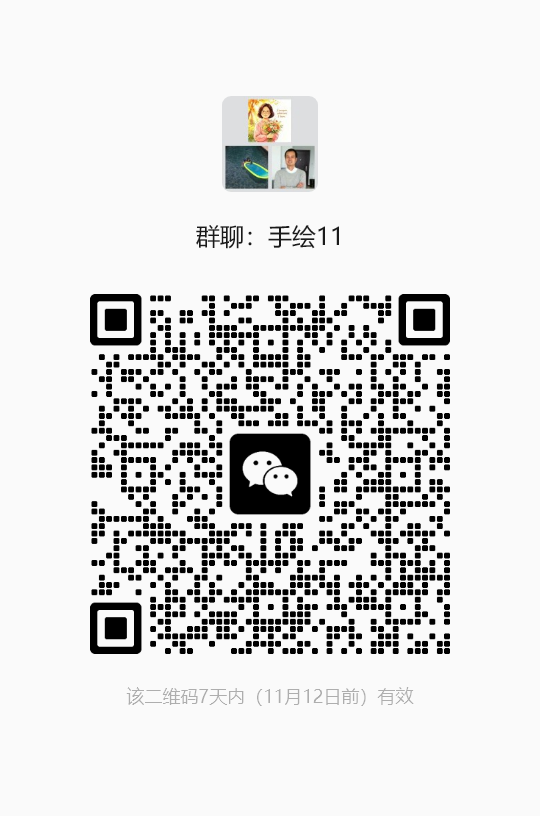
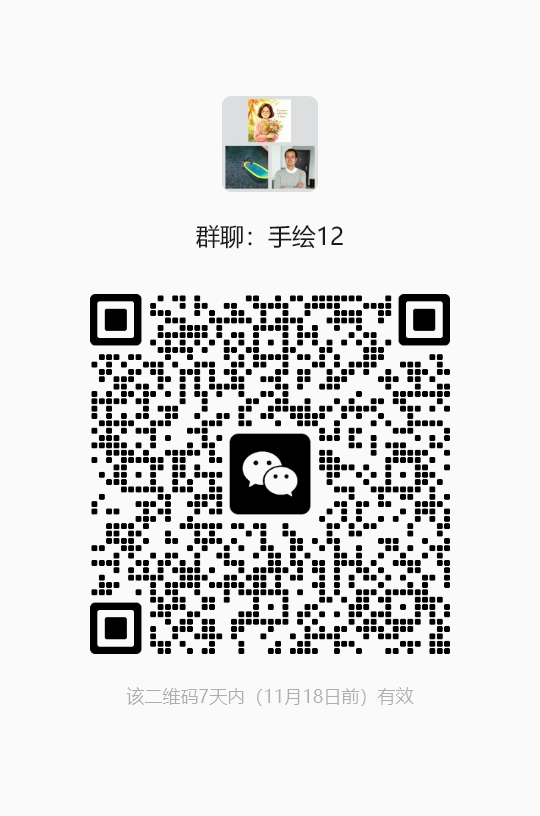
docs(community): renew wechat group 12 qr code (valid until 2026-11-18)

Changed region(s): [[0.1481, 0.337, 0.8593, 0.8272], [0.5926, 0.2757, 0.6519, 0.3064]]

diff --git a/skills/handdraw-style-prompter/gallery/assets.html b/skills/handdraw-style-prompter/gallery/assets.html
@@ -788,7 +788,7 @@ dialog#wechat-modal p { margin: 0 0 16px; font-size: 13.5px; color: #665f57; }
     <div class="qr-card">
       <span class="qr-tag" data-i18n="wechatGroupLabel">① 优先加入群聊</span>
       <img src="../../../images/wechat_group.png" alt="微信交流群二维码">
-      <span class="qr-tip">群聊：手绘11</span>
+      <span class="qr-tip">群聊：手绘12</span>
     </div>
     <div class="qr-card">
       <span class="qr-tag" data-i18n="wechatPersonalLabel">② 个人微信备用</span>

diff --git a/skills/handdraw-style-prompter/scripts/build_assets_gallery.py b/skills/handdraw-style-prompter/scripts/build_assets_gallery.py
@@ -882,7 +882,7 @@ dialog#wechat-modal p {{ margin: 0 0 16px; font-size: 13.5px; color: #665f57; }}
     <div class="qr-card">
       <span class="qr-tag" data-i18n="wechatGroupLabel">① 优先加入群聊</span>
       <img src="../../../images/wechat_group.png" alt="微信交流群二维码">
-      <span class="qr-tip">群聊：手绘11</span>
+      <span class="qr-tip">群聊：手绘12</span>
     </div>
     <div class="qr-card">
       <span class="qr-tag" data-i18n="wechatPersonalLabel">② 个人微信备用</span>

diff --git a/README.md b/README.md
@@ -275,7 +275,7 @@ FH-039 (193)号风格，主题：大唐夜宴
 - 📚 **官方飞书知识库**：[点击访问知识库（速查画廊 / 常见问题速查 / 创业变现案例） ↗](https://ecmn3m3i17.feishu.cn/wiki/space/7689222460876524523?ccm_open_type=lark_wiki_spaceLink&open_tab_from=wiki_home)
 - **创作变现交流群 / 作者微信**：请优先加群，满了的话也可以尝试加我个人微信。请备注：**手绘**
 
-| ① 优先加入群聊（手绘11群） | ② 个人微信（备用） |
+| ① 优先加入群聊（手绘12群） | ② 个人微信（备用） |
 | :---: | :---: |
 | <img src="images/wechat_group.png" alt="微信群聊二维码" width="240"> | <img src="images/wechat_personal.png" alt="个人微信二维码" width="240"> |
 
